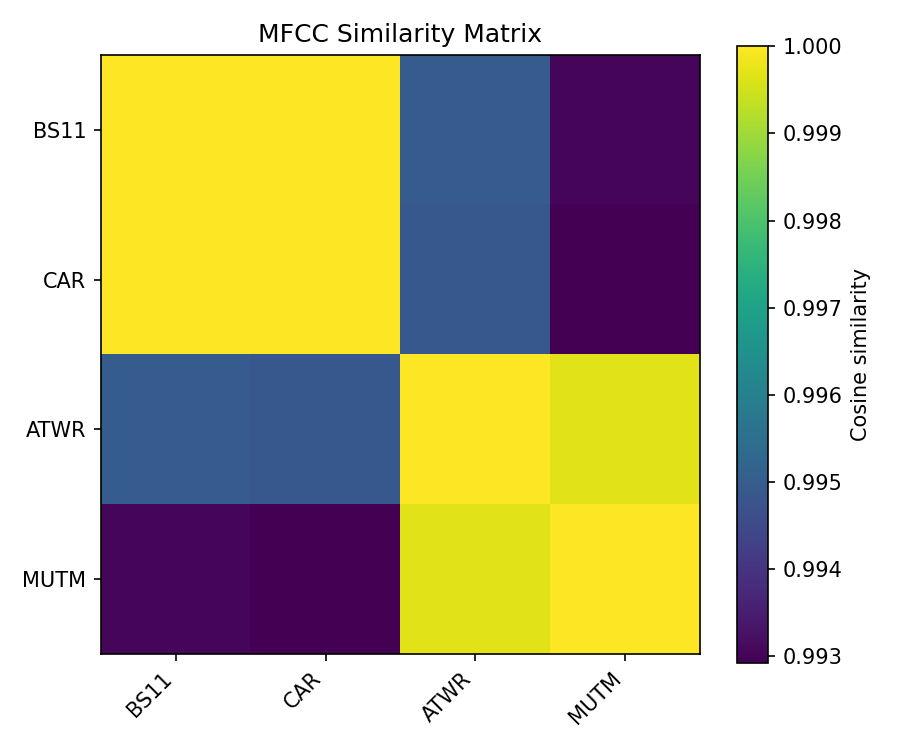
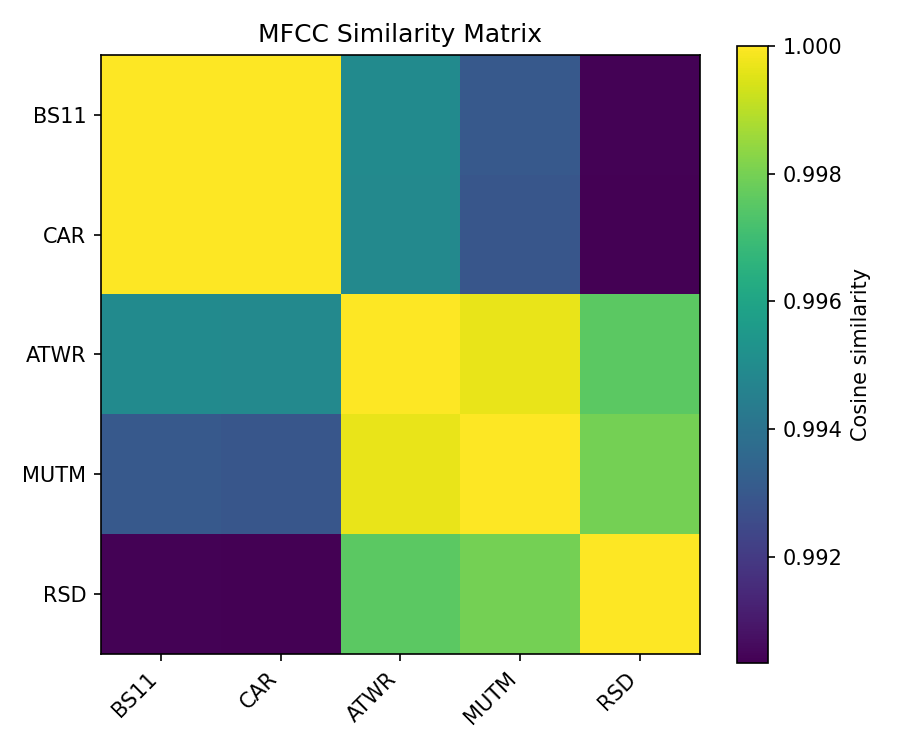
changed radar plot 5-95 percentile to show even minute and max differences

diff --git a/utils/analyse_song.py b/utils/analyse_song.py
@@ -361,15 +361,22 @@ def plot_similarity_matrix(features, outdir, song_label):
 
 
 def plot_radar_chart(features, outdir, song_label):
-    # Keep MONO-derived metrics for radar (as before)
+    # Metrics da visualizzare
     metrics = ["duration_sec", "loudness", "rms", "spectral_centroid"]
     num_vars = len(metrics)
     angles = np.linspace(0, 2 * np.pi, num_vars, endpoint=False)
     angles = np.concatenate([angles, angles[:1]])
 
     eps = 1e-9
-    mins = {m: min(float(f[m]) for f in features) for m in metrics}
-    maxs = {m: max(float(f[m]) for f in features) for m in metrics}
+
+    # Calcola 5° e 95° percentile per ogni metrica
+    percentiles = {
+        m: (
+            np.percentile([float(f[m]) for f in features], 5),
+            np.percentile([float(f[m]) for f in features], 95),
+        )
+        for m in metrics
+    }
 
     plt.figure(figsize=(6, 6))
     ax = plt.subplot(111, polar=True)
@@ -377,20 +384,28 @@ def plot_radar_chart(features, outdir, song_label):
     for f in features:
         vals = []
         for m in metrics:
-            rng = maxs[m] - mins[m]
-            v = (float(f[m]) - mins[m]) / (rng + eps)
-            vals.append(v)
+            pmin, pmax = percentiles[m]
+            v = float(f[m])
+            # Trimming → clamp valori fuori dal range
+            if v < pmin:
+                v = pmin
+            if v > pmax:
+                v = pmax
+            # Normalizzazione su [0,1]
+            norm = (v - pmin) / (pmax - pmin + eps)
+            vals.append(norm)
+
         vals = np.array(vals)
         vals = np.concatenate([vals, vals[:1]])
 
         color = LABEL_COLORS.get(f["label"], None)
-        ax.plot(angles, vals, label=f["label"], color=color)
-        ax.fill(angles, vals, alpha=0.1, color=color)
+        ax.plot(angles, vals, label=f["label"], color=color, linewidth=2)
+        ax.fill(angles, vals, alpha=0.15, color=color)
 
     ax.set_xticks(angles[:-1])
     ax.set_xticklabels(metrics)
     plt.legend(loc="upper right", bbox_to_anchor=(1.3, 1.1))
-    plt.title("Radar Plot of Main Features")
+    plt.title("Radar Plot of Main Features (5–95 percentile scaling)")
     plt.tight_layout()
     plt.savefig(os.path.join(outdir, f"{song_label}-radar_plot.png"), dpi=150)
     plt.close()
@@ -606,7 +621,7 @@ def generate_markdown(song_label, song_title, features, outdir, ref_label=None):
         fmd.write(f"![Waveforms (Left)]({song_label}-waveforms_L.png)\n\n")
         fmd.write(f"![Waveforms (Right)]({song_label}-waveforms_R.png)\n\n")
         fmd.write(f"![Radar Plot]({song_label}-radar_plot.png)\n\n")
-        fmd.write(f"![MFCC Similarity]({song_label}-similarity_matrix.csv)\n\n")
+        fmd.write(f"![MFCC Similarity]({song_label}-similarity_matrix.png)\n\n")
 
         # Stereo Balance
         fmd.write("## Stereo Balance\n\n")

diff --git a/docs/songs/cotl_t2.md b/docs/songs/cotl_t2.md
@@ -7,12 +7,13 @@ song_label: cotl_t2
 
 ## Details
 
-| label   | orig_file                                          | md5                              |   disc |   track |   duration_sec | duration_fmt   |   loudness |   loudness_left |   loudness_right |   loudness_balance |      rms |   rms_left |   rms_right |   rms_balance |    lr_corr |   spectral_centroid |
-|:--------|:---------------------------------------------------|:---------------------------------|-------:|--------:|---------------:|:---------------|-----------:|----------------:|-----------------:|-------------------:|---------:|-----------:|------------:|--------------:|-----------:|--------------------:|
-| BS11    | 14 - Bob Dylan - Crash On The Levee (Take 2).wav   | a50dd5e70b107e68e814de660d42d9d2 |      3 |      14 |        125.72  | 02:05:719      |   -16.1166 |        -15.8608 |         -15.7971 |         -0.0637696 | 0.141118 |   0.155056 |   0.132603  |     0.0224536 | 0.880859   |             2024.18 |
-| CAR     | 03-14-Bob_Dylan-Crash_on_the_Levee_Take_2-SMR.flac | 0aa782abca4f3b5d496fb251fb849a29 |      3 |      14 |        125.711 | 02:05:711      |   -16.1264 |        -15.864  |         -15.8037 |         -0.060327  | 0.141124 |   0.155065 |   0.132607  |     0.0224581 | 0.880859   |             1879.57 |
-| ATWR    | 19 Crash On The Levee - Take 2.flac                | 3065b0534458c4d6b93190baf7d112ff |      3 |      19 |        126.293 | 02:06:293      |   -18.2665 |        -17.4359 |         -18.5625 |          1.12663   | 0.110879 |   0.128789 |   0.0974758 |     0.0313134 | 0.870657   |             1731.21 |
-| MUTM    | 05 Down In The Flood.flac                          | 480b86a67a278f4091862f51295faada |      1 |       5 |        123.613 | 02:03:613      |   -19.2916 |        -15.8851 |         -16.1876 |          0.302521  | 0.103096 |   0.114902 |   0.154511  |    -0.0396091 | 0.00488298 |             1658.96 |
+| label   | orig_file                                          | md5                              |   disc |   track |   duration_sec | duration_fmt   |   loudness |   loudness_left |   loudness_right |   loudness_balance |       rms |   rms_left |   rms_right |   rms_balance |    lr_corr |   spectral_centroid |
+|:--------|:---------------------------------------------------|:---------------------------------|-------:|--------:|---------------:|:---------------|-----------:|----------------:|-----------------:|-------------------:|----------:|-----------:|------------:|--------------:|-----------:|--------------------:|
+| BS11    | 14 - Bob Dylan - Crash On The Levee (Take 2).wav   | a50dd5e70b107e68e814de660d42d9d2 |      3 |      14 |        125.72  | 02:05:719      |   -16.1166 |        -15.8608 |         -15.7971 |         -0.0637696 | 0.141118  |  0.155056  |   0.132603  |     0.0224536 | 0.880859   |             2024.18 |
+| CAR     | 03-14-Bob_Dylan-Crash_on_the_Levee_Take_2-SMR.flac | 0aa782abca4f3b5d496fb251fb849a29 |      3 |      14 |        125.711 | 02:05:711      |   -16.1264 |        -15.864  |         -15.8037 |         -0.060327  | 0.141124  |  0.155065  |   0.132607  |     0.0224581 | 0.880859   |             1879.57 |
+| ATWR    | 19 Crash On The Levee - Take 2.flac                | 3065b0534458c4d6b93190baf7d112ff |      3 |      19 |        126.293 | 02:06:293      |   -18.2665 |        -17.4359 |         -18.5625 |          1.12663   | 0.110879  |  0.128789  |   0.0974758 |     0.0313134 | 0.870657   |             1731.21 |
+| MUTM    | 05 Down In The Flood.flac                          | 480b86a67a278f4091862f51295faada |      1 |       5 |        123.613 | 02:03:613      |   -19.2916 |        -15.8851 |         -16.1876 |          0.302521  | 0.103096  |  0.114902  |   0.154511  |    -0.0396091 | 0.00488298 |             1658.96 |
+| RSD     | 04 Crash On The Levee.flac                         | 16d8cb4f6543be9f6415bb4cdcd72a7a |      1 |       1 |        125.813 | 02:05:813      |   -21.6265 |        -21.6265 |         -21.6265 |          0         | 0.0749398 |  0.0749398 |   0.0749398 |     0         | 1          |             1829.89 |
 
 ## Plots
 ![Waveforms (Mono)](../assets/songs/cotl_t2/cotl_t2-waveforms_Mono.png)
@@ -23,7 +24,7 @@ song_label: cotl_t2
 
 ![Radar Plot](../assets/songs/cotl_t2/cotl_t2-radar_plot.png)
 
-![MFCC Similarity](../assets/songs/cotl_t2/cotl_t2-similarity_matrix.csv)
+![MFCC Similarity](../assets/songs/cotl_t2/cotl_t2-similarity_matrix.png)
 
 ## Stereo Balance
 
@@ -75,6 +76,18 @@ song_label: cotl_t2
 
 ![Stereo Balance Bars](../assets/songs/cotl_t2/cotl_t2-MUTM_balance.png)
 
+### RSD
+
+![STFT Spectrogram (Left)](../assets/songs/cotl_t2/cotl_t2-RSD_spectrogram_L.png)
+
+![STFT Spectrogram (Right)](../assets/songs/cotl_t2/cotl_t2-RSD_spectrogram_R.png)
+
+![Mel Spectrogram (Left)](../assets/songs/cotl_t2/cotl_t2-RSD_melspec_L.png)
+
+![Mel Spectrogram (Right)](../assets/songs/cotl_t2/cotl_t2-RSD_melspec_R.png)
+
+![Stereo Balance Bars](../assets/songs/cotl_t2/cotl_t2-RSD_balance.png)
+
 ## Spectrograms (Mono)
 
 ### BS11
@@ -101,16 +114,23 @@ song_label: cotl_t2
 
 ![Mel Spectrogram (Mono)](../assets/songs/cotl_t2/cotl_t2-MUTM_melspec_Mono.png)
 
+### RSD
+
+![STFT Spectrogram (Mono)](../assets/songs/cotl_t2/cotl_t2-RSD_spectrogram_Mono.png)
+
+![Mel Spectrogram (Mono)](../assets/songs/cotl_t2/cotl_t2-RSD_melspec_Mono.png)
+
 ## Pitch & Speed Analysis (cents)
 
 Reference version: **BS11**
 
 | song_label   | ref_label   | cmp_label   |   tuning_cents_cmp |   tuning_cents_ref |   delta_tuning_cents |   semitone_shift_vs_ref |   chroma_similarity |   speed_factor_from_pitch |   duration_ratio_ref_over_cmp |
 |:-------------|:------------|:------------|-------------------:|-------------------:|---------------------:|------------------------:|--------------------:|--------------------------:|------------------------------:|
-| cotl_t2      | BS11        | BS11        |                -19 |                -19 |                    0 |                       0 |            1        |                         1 |                       1       |
-| cotl_t2      | BS11        | CAR         |                -21 |                -19 |                   -2 |                       0 |            0.992783 |                         1 |                       1.00007 |
-| cotl_t2      | BS11        | ATWR        |                -10 |                -19 |                    9 |                       0 |            0.999128 |                         1 |                       0.99546 |
-| cotl_t2      | BS11        | MUTM        |                 24 |                -19 |                   43 |                       0 |            0.992207 |                         1 |                       1.01704 |
+| cotl_t2      | BS11        | BS11        |                -19 |                -19 |                    0 |                       0 |            1        |                         1 |                      1        |
+| cotl_t2      | BS11        | CAR         |                -21 |                -19 |                   -2 |                       0 |            0.992783 |                         1 |                      1.00007  |
+| cotl_t2      | BS11        | ATWR        |                -10 |                -19 |                    9 |                       0 |            0.999128 |                         1 |                      0.99546  |
+| cotl_t2      | BS11        | MUTM        |                 24 |                -19 |                   43 |                       0 |            0.992207 |                         1 |                      1.01704  |
+| cotl_t2      | BS11        | RSD         |                -22 |                -19 |                   -3 |                       0 |            0.992252 |                         1 |                      0.999261 |
 
 ![Pitch Offsets](../assets/songs/cotl_t2/cotl_t2-pitch_offsets.png)
 
@@ -122,8 +142,5 @@ BS11: shift=0 st ; Δtuning=0.0 cents ; speed_from_pitch=1.0000 ; duration_ratio
 CAR: shift=0 st ; Δtuning=-2.0 cents ; speed_from_pitch=1.0000 ; duration_ratio(ref/cmp)=1.0001
 ATWR: shift=0 st ; Δtuning=9.0 cents ; speed_from_pitch=1.0000 ; duration_ratio(ref/cmp)=0.9955
 MUTM: shift=0 st ; Δtuning=43.0 cents ; speed_from_pitch=1.0000 ; duration_ratio(ref/cmp)=1.0170
+RSD: shift=0 st ; Δtuning=-3.0 cents ; speed_from_pitch=1.0000 ; duration_ratio(ref/cmp)=0.9993
 ```
-
-- [Pitch report CSV](../assets/songs/cotl_t2/cotl_t2-pitch_report.csv)
-- [Pitch summary TXT](../assets/songs/cotl_t2/cotl_t2-pitch_summary.txt)
-

diff --git a/results/cotl_t2/cotl_t2.md b/results/cotl_t2/cotl_t2.md
@@ -7,12 +7,13 @@ song_label: cotl_t2
 
 ## Details
 
-| label   | orig_file                                          | md5                              |   disc |   track |   duration_sec | duration_fmt   |   loudness |   loudness_left |   loudness_right |   loudness_balance |      rms |   rms_left |   rms_right |   rms_balance |    lr_corr |   spectral_centroid |
-|:--------|:---------------------------------------------------|:---------------------------------|-------:|--------:|---------------:|:---------------|-----------:|----------------:|-----------------:|-------------------:|---------:|-----------:|------------:|--------------:|-----------:|--------------------:|
-| BS11    | 14 - Bob Dylan - Crash On The Levee (Take 2).wav   | a50dd5e70b107e68e814de660d42d9d2 |      3 |      14 |        125.72  | 02:05:719      |   -16.1166 |        -15.8608 |         -15.7971 |         -0.0637696 | 0.141118 |   0.155056 |   0.132603  |     0.0224536 | 0.880859   |             2024.18 |
-| CAR     | 03-14-Bob_Dylan-Crash_on_the_Levee_Take_2-SMR.flac | 0aa782abca4f3b5d496fb251fb849a29 |      3 |      14 |        125.711 | 02:05:711      |   -16.1264 |        -15.864  |         -15.8037 |         -0.060327  | 0.141124 |   0.155065 |   0.132607  |     0.0224581 | 0.880859   |             1879.57 |
-| ATWR    | 19 Crash On The Levee - Take 2.flac                | 3065b0534458c4d6b93190baf7d112ff |      3 |      19 |        126.293 | 02:06:293      |   -18.2665 |        -17.4359 |         -18.5625 |          1.12663   | 0.110879 |   0.128789 |   0.0974758 |     0.0313134 | 0.870657   |             1731.21 |
-| MUTM    | 05 Down In The Flood.flac                          | 480b86a67a278f4091862f51295faada |      1 |       5 |        123.613 | 02:03:613      |   -19.2916 |        -15.8851 |         -16.1876 |          0.302521  | 0.103096 |   0.114902 |   0.154511  |    -0.0396091 | 0.00488298 |             1658.96 |
+| label   | orig_file                                          | md5                              |   disc |   track |   duration_sec | duration_fmt   |   loudness |   loudness_left |   loudness_right |   loudness_balance |       rms |   rms_left |   rms_right |   rms_balance |    lr_corr |   spectral_centroid |
+|:--------|:---------------------------------------------------|:---------------------------------|-------:|--------:|---------------:|:---------------|-----------:|----------------:|-----------------:|-------------------:|----------:|-----------:|------------:|--------------:|-----------:|--------------------:|
+| BS11    | 14 - Bob Dylan - Crash On The Levee (Take 2).wav   | a50dd5e70b107e68e814de660d42d9d2 |      3 |      14 |        125.72  | 02:05:719      |   -16.1166 |        -15.8608 |         -15.7971 |         -0.0637696 | 0.141118  |  0.155056  |   0.132603  |     0.0224536 | 0.880859   |             2024.18 |
+| CAR     | 03-14-Bob_Dylan-Crash_on_the_Levee_Take_2-SMR.flac | 0aa782abca4f3b5d496fb251fb849a29 |      3 |      14 |        125.711 | 02:05:711      |   -16.1264 |        -15.864  |         -15.8037 |         -0.060327  | 0.141124  |  0.155065  |   0.132607  |     0.0224581 | 0.880859   |             1879.57 |
+| ATWR    | 19 Crash On The Levee - Take 2.flac                | 3065b0534458c4d6b93190baf7d112ff |      3 |      19 |        126.293 | 02:06:293      |   -18.2665 |        -17.4359 |         -18.5625 |          1.12663   | 0.110879  |  0.128789  |   0.0974758 |     0.0313134 | 0.870657   |             1731.21 |
+| MUTM    | 05 Down In The Flood.flac                          | 480b86a67a278f4091862f51295faada |      1 |       5 |        123.613 | 02:03:613      |   -19.2916 |        -15.8851 |         -16.1876 |          0.302521  | 0.103096  |  0.114902  |   0.154511  |    -0.0396091 | 0.00488298 |             1658.96 |
+| RSD     | 04 Crash On The Levee.flac                         | 16d8cb4f6543be9f6415bb4cdcd72a7a |      1 |       1 |        125.813 | 02:05:813      |   -21.6265 |        -21.6265 |         -21.6265 |          0         | 0.0749398 |  0.0749398 |   0.0749398 |     0         | 1          |             1829.89 |
 
 ## Plots
 ![Waveforms (Mono)](cotl_t2-waveforms_Mono.png)
@@ -75,6 +76,18 @@ song_label: cotl_t2
 
 ![Stereo Balance Bars](cotl_t2-MUTM_balance.png)
 
+### RSD
+
+![STFT Spectrogram (Left)](cotl_t2-RSD_spectrogram_L.png)
+
+![STFT Spectrogram (Right)](cotl_t2-RSD_spectrogram_R.png)
+
+![Mel Spectrogram (Left)](cotl_t2-RSD_melspec_L.png)
+
+![Mel Spectrogram (Right)](cotl_t2-RSD_melspec_R.png)
+
+![Stereo Balance Bars](cotl_t2-RSD_balance.png)
+
 ## Spectrograms (Mono)
 
 ### BS11
@@ -101,16 +114,23 @@ song_label: cotl_t2
 
 ![Mel Spectrogram (Mono)](cotl_t2-MUTM_melspec_Mono.png)
 
+### RSD
+
+![STFT Spectrogram (Mono)](cotl_t2-RSD_spectrogram_Mono.png)
+
+![Mel Spectrogram (Mono)](cotl_t2-RSD_melspec_Mono.png)
+
 ## Pitch & Speed Analysis (cents)
 
 Reference version: **BS11**
 
 | song_label   | ref_label   | cmp_label   |   tuning_cents_cmp |   tuning_cents_ref |   delta_tuning_cents |   semitone_shift_vs_ref |   chroma_similarity |   speed_factor_from_pitch |   duration_ratio_ref_over_cmp |
 |:-------------|:------------|:------------|-------------------:|-------------------:|---------------------:|------------------------:|--------------------:|--------------------------:|------------------------------:|
-| cotl_t2      | BS11        | BS11        |                -19 |                -19 |                    0 |                       0 |            1        |                         1 |                       1       |
-| cotl_t2      | BS11        | CAR         |                -21 |                -19 |                   -2 |                       0 |            0.992783 |                         1 |                       1.00007 |
-| cotl_t2      | BS11        | ATWR        |                -10 |                -19 |                    9 |                       0 |            0.999128 |                         1 |                       0.99546 |
-| cotl_t2      | BS11        | MUTM        |                 24 |                -19 |                   43 |                       0 |            0.992207 |                         1 |                       1.01704 |
+| cotl_t2      | BS11        | BS11        |                -19 |                -19 |                    0 |                       0 |            1        |                         1 |                      1        |
+| cotl_t2      | BS11        | CAR         |                -21 |                -19 |                   -2 |                       0 |            0.992783 |                         1 |                      1.00007  |
+| cotl_t2      | BS11        | ATWR        |                -10 |                -19 |                    9 |                       0 |            0.999128 |                         1 |                      0.99546  |
+| cotl_t2      | BS11        | MUTM        |                 24 |                -19 |                   43 |                       0 |            0.992207 |                         1 |                      1.01704  |
+| cotl_t2      | BS11        | RSD         |                -22 |                -19 |                   -3 |                       0 |            0.992252 |                         1 |                      0.999261 |
 
 ![Pitch Offsets](cotl_t2-pitch_offsets.png)
 
@@ -122,8 +142,6 @@ BS11: shift=0 st ; Δtuning=0.0 cents ; speed_from_pitch=1.0000 ; duration_ratio
 CAR: shift=0 st ; Δtuning=-2.0 cents ; speed_from_pitch=1.0000 ; duration_ratio(ref/cmp)=1.0001
 ATWR: shift=0 st ; Δtuning=9.0 cents ; speed_from_pitch=1.0000 ; duration_ratio(ref/cmp)=0.9955
 MUTM: shift=0 st ; Δtuning=43.0 cents ; speed_from_pitch=1.0000 ; duration_ratio(ref/cmp)=1.0170
+RSD: shift=0 st ; Δtuning=-3.0 cents ; speed_from_pitch=1.0000 ; duration_ratio(ref/cmp)=0.9993
 ```
-
-- [Pitch report CSV](cotl_t2-pitch_report.csv)
-- [Pitch summary TXT](cotl_t2-pitch_summary.txt)
 
